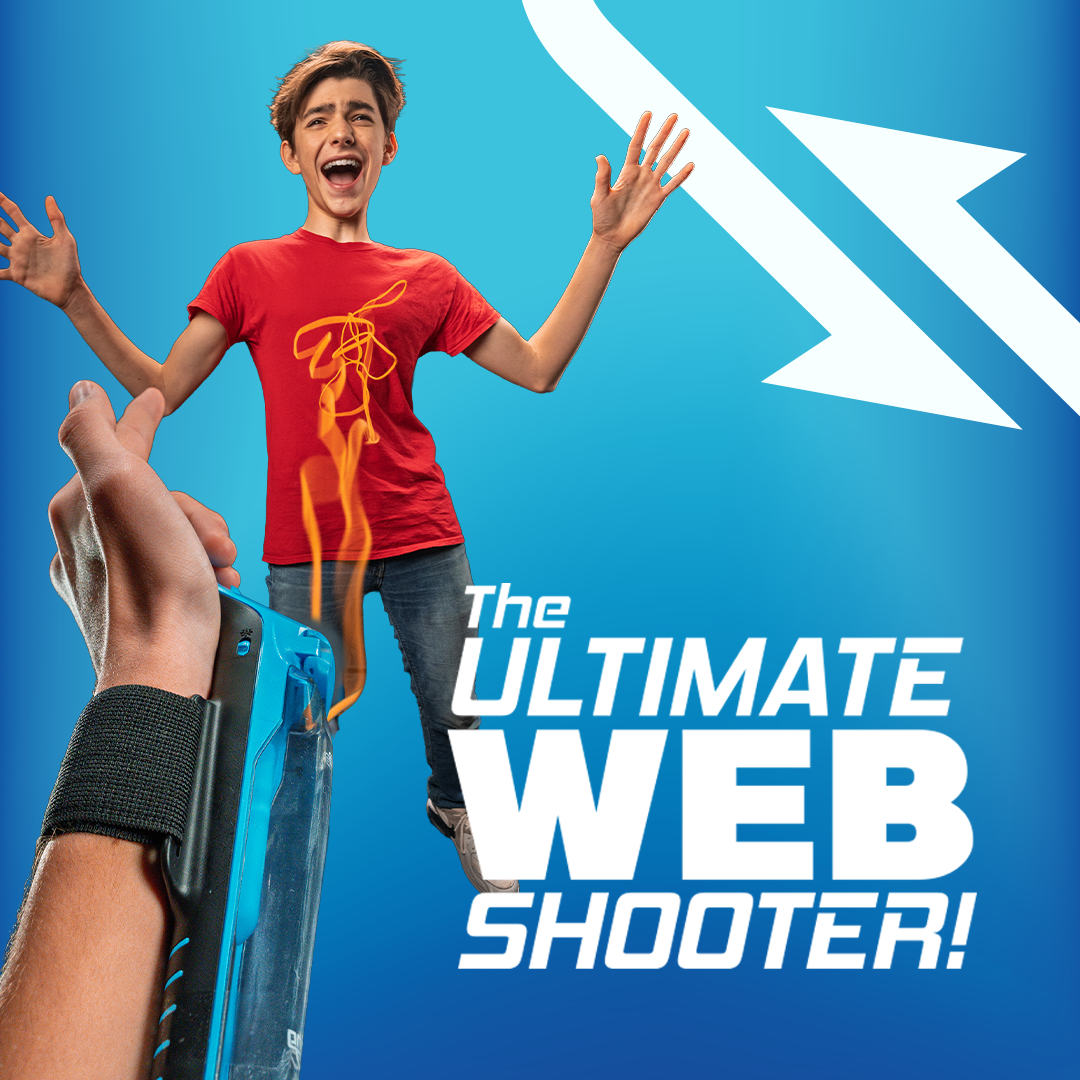
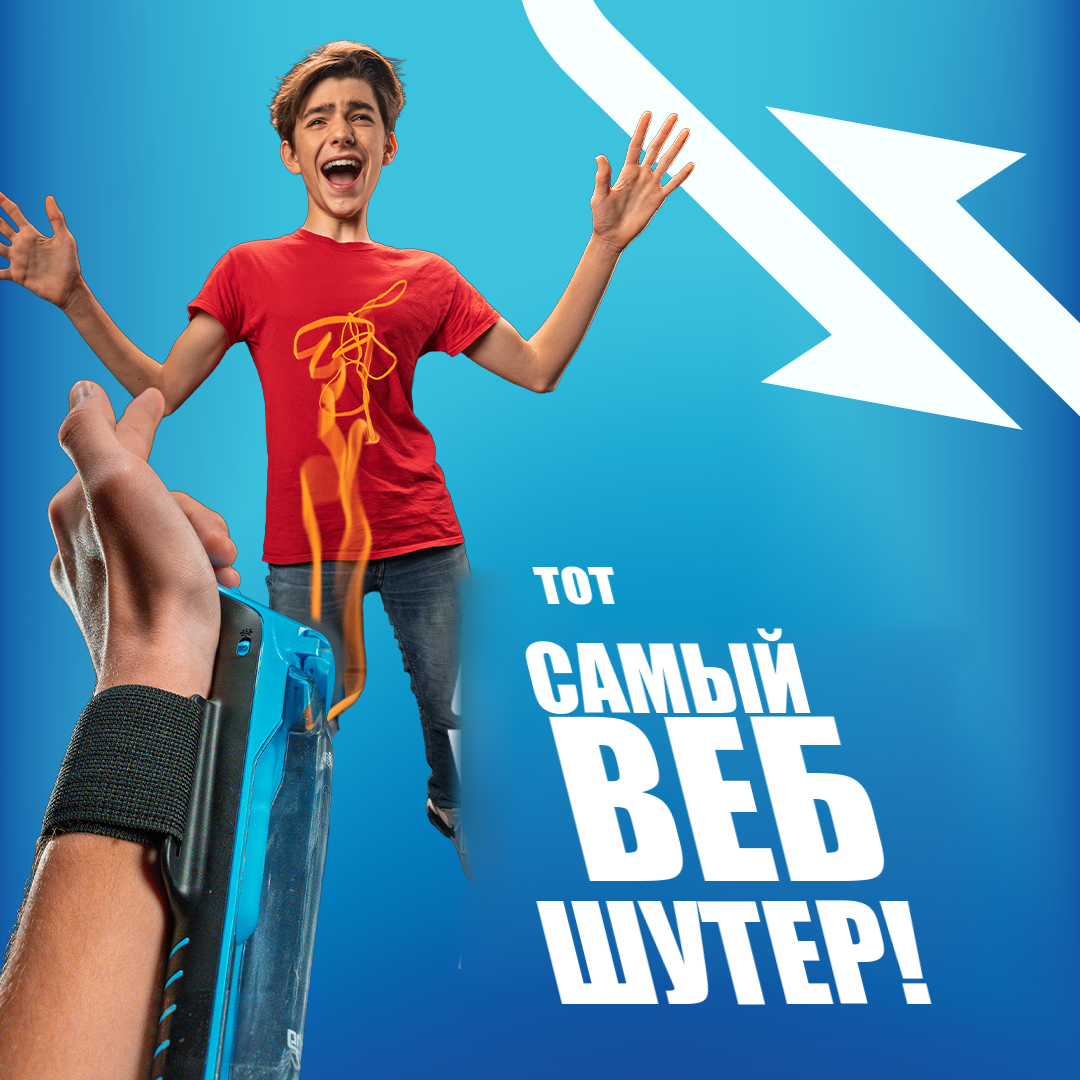
feat(site): постеры трюков, автоплей видео, верные названия трюков, фикс Aracna
- постеры для 10 роликов трюков (assets/img/poster/) + hero poster из ролика
- автоплей демо-видео по видимости (IntersectionObserver) — работает на тач
- скрыт play-hint на тач-экранах (@media hover:none)
- верные названия трюков на /tricks по титрам в роликах (были наугад)
- квадратный контейнер spotlight Aracna — картинка больше не обрезается
- русская надпись на креативе Aracna (ТОТ САМЫЙ ВЕБ ШУТЕР!)
- фикс дубля суффикса в title главной

Changed region(s): [[0.3972, 0.5194, 0.9167, 0.9472]]

diff --git a/pages/tricks/index.html b/pages/tricks/index.html
@@ -68,7 +68,7 @@
       <!-- 1. Единорог -->
       <div class="trick-full-card reveal" data-level="начинающий">
         <div class="trick-full-media">
-          <video class="trick-video" muted loop playsinline preload="none"
+          <video class="trick-video" muted loop playsinline preload="none" poster="/assets/img/poster/trick-01.jpg"
                  onmouseover="this.play()" onmouseout="this.pause()"
                  style="width:100%;height:100%;object-fit:cover;background:#0d0d0d;">
             <source src="/assets/video/trick-01.mp4" type="video/mp4">
@@ -76,7 +76,7 @@
         </div>
         <div class="trick-full-info">
           <div class="trick-full-level beginner">Начинающий</div>
-          <div class="trick-full-name">Штопор</div>
+          <div class="trick-full-name">Лук и стрела</div>
           <button class="trick-full-btn" onclick="const v=this.closest('.trick-full-card').querySelector('video');v.play();(v.requestFullscreen||v.webkitEnterFullscreen).call(v)">▶ Смотреть видео</button>
         </div>
       </div>
@@ -84,7 +84,7 @@
       <!-- 2. Волна -->
       <div class="trick-full-card reveal reveal-delay-1" data-level="начинающий">
         <div class="trick-full-media">
-          <video class="trick-video" muted loop playsinline preload="none"
+          <video class="trick-video" muted loop playsinline preload="none" poster="/assets/img/poster/trick-02.jpg"
                  onmouseover="this.play()" onmouseout="this.pause()"
                  style="width:100%;height:100%;object-fit:cover;background:#0d0d0d;">
             <source src="/assets/video/trick-02.mp4" type="video/mp4">
@@ -92,7 +92,7 @@
         </div>
         <div class="trick-full-info">
           <div class="trick-full-level beginner">Начинающий</div>
-          <div class="trick-full-name">Проскок</div>
+          <div class="trick-full-name">Скрипка</div>
           <button class="trick-full-btn" onclick="const v=this.closest('.trick-full-card').querySelector('video');v.play();(v.requestFullscreen||v.webkitEnterFullscreen).call(v)">▶ Смотреть видео</button>
         </div>
       </div>
@@ -100,7 +100,7 @@
       <!-- 3. Восьмёрка -->
       <div class="trick-full-card reveal reveal-delay-2" data-level="начинающий">
         <div class="trick-full-media">
-          <video class="trick-video" muted loop playsinline preload="none"
+          <video class="trick-video" muted loop playsinline preload="none" poster="/assets/img/poster/trick-03.jpg"
                  onmouseover="this.play()" onmouseout="this.pause()"
                  style="width:100%;height:100%;object-fit:cover;background:#0d0d0d;">
             <source src="/assets/video/trick-03.mp4" type="video/mp4">
@@ -108,7 +108,7 @@
         </div>
         <div class="trick-full-info">
           <div class="trick-full-level beginner">Начинающий</div>
-          <div class="trick-full-name">Бесконечность</div>
+          <div class="trick-full-name">Вихрь</div>
           <button class="trick-full-btn" onclick="const v=this.closest('.trick-full-card').querySelector('video');v.play();(v.requestFullscreen||v.webkitEnterFullscreen).call(v)">▶ Смотреть видео</button>
         </div>
       </div>
@@ -116,7 +116,7 @@
       <!-- 4. Змея -->
       <div class="trick-full-card reveal reveal-delay-3" data-level="начинающий">
         <div class="trick-full-media">
-          <video class="trick-video" muted loop playsinline preload="none"
+          <video class="trick-video" muted loop playsinline preload="none" poster="/assets/img/poster/trick-04.jpg"
                  onmouseover="this.play()" onmouseout="this.pause()"
                  style="width:100%;height:100%;object-fit:cover;background:#0d0d0d;">
             <source src="/assets/video/trick-04.mp4" type="video/mp4">
@@ -124,7 +124,7 @@
         </div>
         <div class="trick-full-info">
           <div class="trick-full-level beginner">Начинающий</div>
-          <div class="trick-full-name">Непослушная нить</div>
+          <div class="trick-full-name">Брызги</div>
           <button class="trick-full-btn" onclick="const v=this.closest('.trick-full-card').querySelector('video');v.play();(v.requestFullscreen||v.webkitEnterFullscreen).call(v)">▶ Смотреть видео</button>
         </div>
       </div>
@@ -132,7 +132,7 @@
       <!-- 5. Вебшутер -->
       <div class="trick-full-card reveal" data-level="средний">
         <div class="trick-full-media">
-          <video class="trick-video" muted loop playsinline preload="none"
+          <video class="trick-video" muted loop playsinline preload="none" poster="/assets/img/poster/trick-05.jpg"
                  onmouseover="this.play()" onmouseout="this.pause()"
                  style="width:100%;height:100%;object-fit:cover;background:#0d0d0d;">
             <source src="/assets/video/trick-05.mp4" type="video/mp4">
@@ -140,7 +140,7 @@
         </div>
         <div class="trick-full-info">
           <div class="trick-full-level intermediate">Средний</div>
-          <div class="trick-full-name">Человек-паук</div>
+          <div class="trick-full-name">Штопор</div>
           <button class="trick-full-btn" onclick="const v=this.closest('.trick-full-card').querySelector('video');v.play();(v.requestFullscreen||v.webkitEnterFullscreen).call(v)">▶ Смотреть видео</button>
         </div>
       </div>
@@ -148,10 +148,42 @@
       <!-- 6. Ореол -->
       <div class="trick-full-card reveal reveal-delay-1" data-level="средний">
         <div class="trick-full-media">
-          <video class="trick-video" muted loop playsinline preload="none"
+          <video class="trick-video" muted loop playsinline preload="none" poster="/assets/img/poster/trick-06.jpg"
                  onmouseover="this.play()" onmouseout="this.pause()"
                  style="width:100%;height:100%;object-fit:cover;background:#0d0d0d;">
             <source src="/assets/video/trick-06.mp4" type="video/mp4">
+          </video>
+        </div>
+        <div class="trick-full-info">
+          <div class="trick-full-level intermediate">Средний</div>
+          <div class="trick-full-name">Подъёмник</div>
+          <button class="trick-full-btn" onclick="const v=this.closest('.trick-full-card').querySelector('video');v.play();(v.requestFullscreen||v.webkitEnterFullscreen).call(v)">▶ Смотреть видео</button>
+        </div>
+      </div>
+
+      <!-- 7. Пропеллер -->
+      <div class="trick-full-card reveal reveal-delay-2" data-level="средний">
+        <div class="trick-full-media">
+          <video class="trick-video" muted loop playsinline preload="none" poster="/assets/img/poster/trick-07.jpg"
+                 onmouseover="this.play()" onmouseout="this.pause()"
+                 style="width:100%;height:100%;object-fit:cover;background:#0d0d0d;">
+            <source src="/assets/video/trick-07.mp4" type="video/mp4">
+          </video>
+        </div>
+        <div class="trick-full-info">
+          <div class="trick-full-level intermediate">Средний</div>
+          <div class="trick-full-name">Гимнастика</div>
+          <button class="trick-full-btn" onclick="const v=this.closest('.trick-full-card').querySelector('video');v.play();(v.requestFullscreen||v.webkitEnterFullscreen).call(v)">▶ Смотреть видео</button>
+        </div>
+      </div>
+
+      <!-- 8. Бабочка -->
+      <div class="trick-full-card reveal reveal-delay-3" data-level="средний">
+        <div class="trick-full-media">
+          <video class="trick-video" muted loop playsinline preload="none" poster="/assets/img/poster/trick-08.jpg"
+                 onmouseover="this.play()" onmouseout="this.pause()"
+                 style="width:100%;height:100%;object-fit:cover;background:#0d0d0d;">
+            <source src="/assets/video/trick-08.mp4" type="video/mp4">
           </video>
         </div>
         <div class="trick-full-info">
@@ -161,42 +193,10 @@
         </div>
       </div>
 
-      <!-- 7. Пропеллер -->
-      <div class="trick-full-card reveal reveal-delay-2" data-level="средний">
-        <div class="trick-full-media">
-          <video class="trick-video" muted loop playsinline preload="none"
-                 onmouseover="this.play()" onmouseout="this.pause()"
-                 style="width:100%;height:100%;object-fit:cover;background:#0d0d0d;">
-            <source src="/assets/video/trick-07.mp4" type="video/mp4">
-          </video>
-        </div>
-        <div class="trick-full-info">
-          <div class="trick-full-level intermediate">Средний</div>
-          <div class="trick-full-name">Стрельба из лука</div>
-          <button class="trick-full-btn" onclick="const v=this.closest('.trick-full-card').querySelector('video');v.play();(v.requestFullscreen||v.webkitEnterFullscreen).call(v)">▶ Смотреть видео</button>
-        </div>
-      </div>
-
-      <!-- 8. Бабочка -->
-      <div class="trick-full-card reveal reveal-delay-3" data-level="средний">
-        <div class="trick-full-media">
-          <video class="trick-video" muted loop playsinline preload="none"
-                 onmouseover="this.play()" onmouseout="this.pause()"
-                 style="width:100%;height:100%;object-fit:cover;background:#0d0d0d;">
-            <source src="/assets/video/trick-08.mp4" type="video/mp4">
-          </video>
-        </div>
-        <div class="trick-full-info">
-          <div class="trick-full-level intermediate">Средний</div>
-          <div class="trick-full-name">Бабочка</div>
-          <button class="trick-full-btn" onclick="const v=this.closest('.trick-full-card').querySelector('video');v.play();(v.requestFullscreen||v.webkitEnterFullscreen).call(v)">▶ Смотреть видео</button>
-        </div>
-      </div>
-
       <!-- 9. Водопад -->
       <div class="trick-full-card reveal" data-level="продвинутый">
         <div class="trick-full-media">
-          <video class="trick-video" muted loop playsinline preload="none"
+          <video class="trick-video" muted loop playsinline preload="none" poster="/assets/img/poster/trick-09.jpg"
                  onmouseover="this.play()" onmouseout="this.pause()"
                  style="width:100%;height:100%;object-fit:cover;background:#0d0d0d;">
             <source src="/assets/video/trick-09.mp4" type="video/mp4">
@@ -204,7 +204,7 @@
         </div>
         <div class="trick-full-info">
           <div class="trick-full-level advanced">Продвинутый</div>
-          <div class="trick-full-name">Водопад</div>
+          <div class="trick-full-name">Ускоритель частиц</div>
           <button class="trick-full-btn" onclick="const v=this.closest('.trick-full-card').querySelector('video');v.play();(v.requestFullscreen||v.webkitEnterFullscreen).call(v)">▶ Смотреть видео</button>
         </div>
       </div>
@@ -212,7 +212,7 @@
       <!-- 10. Лассо -->
       <div class="trick-full-card reveal reveal-delay-1" data-level="продвинутый">
         <div class="trick-full-media">
-          <video class="trick-video" muted loop playsinline preload="none"
+          <video class="trick-video" muted loop playsinline preload="none" poster="/assets/img/poster/trick-10.jpg"
                  onmouseover="this.play()" onmouseout="this.pause()"
                  style="width:100%;height:100%;object-fit:cover;background:#0d0d0d;">
             <source src="/assets/video/trick-10.mp4" type="video/mp4">
@@ -220,7 +220,7 @@
         </div>
         <div class="trick-full-info">
           <div class="trick-full-level advanced">Продвинутый</div>
-          <div class="trick-full-name">Лассо</div>
+          <div class="trick-full-name">Балерина</div>
           <button class="trick-full-btn" onclick="const v=this.closest('.trick-full-card').querySelector('video');v.play();(v.requestFullscreen||v.webkitEnterFullscreen).call(v)">▶ Смотреть видео</button>
         </div>
       </div>

diff --git a/index.html b/index.html
@@ -3,7 +3,7 @@
 <head>
   <meta charset="UTF-8">
   <meta name="viewport" content="width=device-width, initial-scale=1.0">
-  <title>ZipString Russia — Официальный дистрибьютор — ZipString Russia</title>
+  <title>ZipString Russia — Официальный дистрибьютор в России</title>
   <meta name="description" content="Официальный дистрибьютор ZipString в России. Купить ZipString Original, Luma и Aracna на Wildberries и Ozon. 100+ трюков, ТР ТС 008/2011, гарантия 1 год.">
   <meta property="og:title" content="ZipString Russia — Официальный дистрибьютор — ZipString Russia">
   <meta property="og:description" content="Официальный дистрибьютор ZipString в России. Купить ZipString Original, Luma и Aracna на Wildberries и Ozon. 100+ трюков, ТР ТС 008/2011, гарантия 1 год.">
@@ -48,7 +48,7 @@
   <div class="hero-visual">
     <div class="hero-placeholder">
       <video class="hero-video" autoplay muted loop playsinline preload="metadata"
-             poster="/assets/img/original.jpg" style="width:100%;height:100%;object-fit:cover;border-radius:var(--zs-radius-lg);box-shadow:var(--zs-glow-soft);">
+             poster="/assets/img/poster/hero.jpg" style="width:100%;height:100%;object-fit:cover;border-radius:var(--zs-radius-lg);box-shadow:var(--zs-glow-soft);">
         <source src="/assets/video/hero.mp4" type="video/mp4">
       </video>
     </div>
@@ -246,7 +246,7 @@
 <!-- ─── SPOTLIGHT: ARACNA ─────────────────────────────────────────────────────── -->
 <section class="spotlight" style="background:var(--bg2);">
   <div class="spotlight-inner reverse">
-    <div class="spotlight-media reveal">
+    <div class="spotlight-media spotlight-media--square reveal">
       <img src="/assets/img/aracna-webshooter.png" alt="ZipString Aracna вебшутер" loading="lazy">
     </div>
     <div class="spotlight-content reveal reveal-delay-1">

diff --git a/js/main.js b/js/main.js
@@ -39,6 +39,29 @@ function initScrollReveal() {
   document.querySelectorAll('.reveal').forEach(el => observer.observe(el));
 }
 
+// ─── АВТОПЛЕЙ ДЕМО-ВИДЕО ПО ВИДИМОСТИ ──────────────────────────────────────────
+// На тач-устройствах onmouseover не срабатывает — демо-видео (трюки, карточки
+// продуктов) заводим при попадании в вьюпорт и паузим при уходе. Reduced-motion —
+// не трогаем (poster остаётся статичным).
+function initVideoAutoplay() {
+  const vids = document.querySelectorAll('.trick-video, .product-media-video');
+  if (!vids.length) return;
+  if (window.matchMedia('(prefers-reduced-motion: reduce)').matches) return;
+
+  const io = new IntersectionObserver((entries) => {
+    entries.forEach(e => {
+      const v = e.target;
+      if (e.isIntersecting) {
+        v.play().catch(() => {}); // автоплей могут заблокировать — тихо игнорим
+      } else if (!v.paused) {
+        v.pause();
+      }
+    });
+  }, { threshold: 0.5 });
+
+  vids.forEach(v => io.observe(v));
+}
+
 // ─── MOBILE MENU ──────────────────────────────────────────────────────────────
 function initMobileMenu() {
   const toggle = document.getElementById('menuToggle');
@@ -221,4 +244,5 @@ document.addEventListener('DOMContentLoaded', () => {
   initAnnouncementBar();
   initShopLinks();
   initSocialLinks();
+  initVideoAutoplay();
 });

diff --git a/css/main.css b/css/main.css
@@ -799,6 +799,13 @@ nav a.active {
   object-fit: cover;
 }
 
+/* Квадратный медиа-бокс под квадратные креативы (Aracna web-shooter 1080×1080) —
+   иначе cover в вертикали 3/4 срезает голову и надпись. Два класса перебивают
+   и десктоп 3/4, и мобильный 16/9 без !important. */
+.spotlight-media.spotlight-media--square {
+  aspect-ratio: 1;
+}
+
 .spotlight-glow {
   position: absolute;
   inset: -20%;
@@ -3021,4 +3028,8 @@ p {
   background: rgba(8,8,8,0.7); border: 1px solid var(--border); border-radius: 999px;
   padding: 4px 10px; font-size: 11px; color: var(--lime); pointer-events: none;
   font-family: var(--font-display); font-weight: 700;
+}
+/* На тач-экранах наводить нечем — видео заводится автоплеем по видимости */
+@media (hover: none) {
+  .product-media .play-hint { display: none; }
 }
